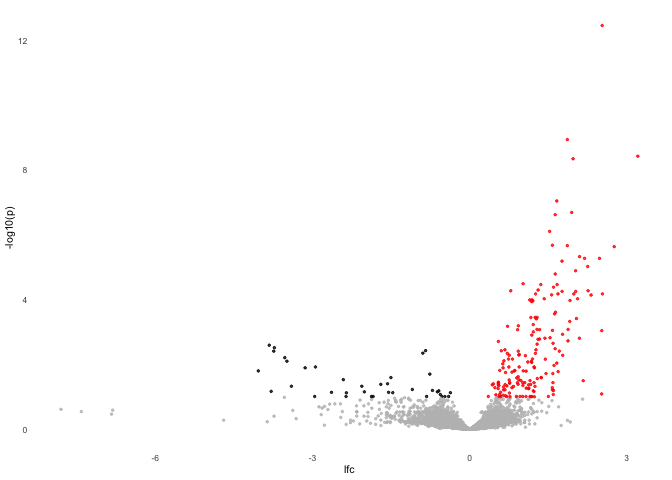
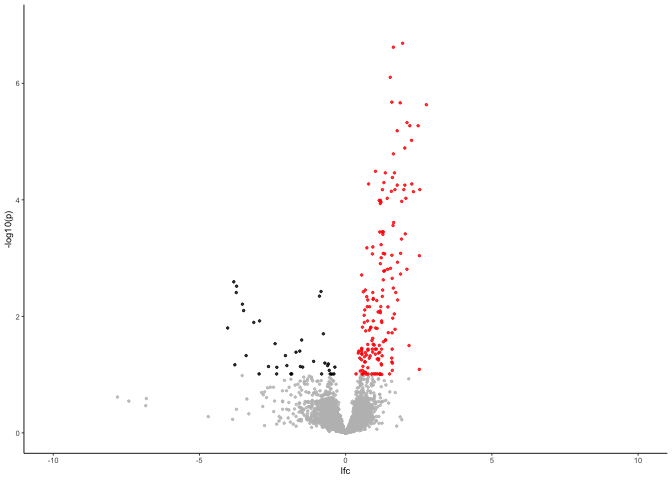
now with heatmaps

diff --git a/scripts/02f_trainedvyoked.md b/scripts/02f_trainedvyoked.md
@@ -2,6 +2,8 @@
     library(forcats)
     library(cowplot) ## for some easy to use themes
     library(DESeq2) ## for gene expression analysis
+    library(pheatmap)
+    library(viridis)
 
     library(BiocParallel)
     register(MulticoreParam(6))
@@ -332,10 +334,10 @@
       volcano <- data %>%
         ggplot(aes(x = lfc, y = logpadj)) + 
         geom_point(aes(color = factor(direction)), size = 0.5, alpha = 0.75, na.rm = T) + 
-          theme_minimal(base_size = 8) +
+          theme_ms() +
         scale_color_manual(values = c("grey", "red", "black"))  + 
-        #ylim(c(0,7)) +
-        #xlim(c(-10,10)) +
+        ylim(c(0,7)) +
+        xlim(c(-10,10)) +
         labs(x = "lfc", y = "-log10(p)")  +
         theme(panel.grid.minor=element_blank(),
                     panel.grid.major=element_blank(),
@@ -355,3 +357,146 @@
     plot_grid(a,b, labels = c("DG", "CA1"))
 
 ![](../figures/02f_trainedvyoked/volcanos-3.png)
+
+    resvals2 <- function(mydds, contrastvector, mypval){
+      res <- results(mydds, contrast = c(contrastvector[1],contrastvector[2],contrastvector[3]), independentFiltering = T)
+      sumpvalue <- sum(res$pvalue < mypval, na.rm = TRUE)
+      #print(sumpvalue)
+      sumpadj <- sum(res$padj < mypval, na.rm = TRUE)
+      print(sumpadj)
+      vals <- cbind(res$pvalue, res$padj)
+      pvalcolname <- as.character(paste("pval",contrastvector[1],contrastvector[2],contrastvector[3], sep=""))
+      padjcolname <- as.character(paste("padj",contrastvector[1],contrastvector[2],contrastvector[3], sep=""))
+      colnames(vals) <- c(pvalcolname, padjcolname)
+      return(vals)
+    }
+
+    contrast1 <- resvals2(DGdds, contrastvector = c("combinedgroups", "trained", "yoked"), mypval = 0.1) # 3060
+
+    ## [1] 214
+
+    contrast2 <- resvals2(CA1dds, contrastvector = c("combinedgroups", "trained", "yoked"), mypval = 0.1) # 2388
+
+    ## [1] 16
+
+    ## DG 
+    DEGes <- assay(vst(DGdds))
+    DEGes <- cbind(DEGes, contrast1)
+    DEGes <- as.data.frame(DEGes) # convert matrix to dataframe
+    DEGes$rownames <- rownames(DEGes)  # add the rownames to the dataframe
+    DEGes$rownames <- str_to_upper(DEGes$rownames) ## uppercase gene names
+    DEGes$padjmin <- with(DEGes, pmin(padjcombinedgroupstrainedyoked)) 
+    DEGes <- DEGes %>% filter(padjmin < 0.05)
+    rownames(DEGes) <- DEGes$rownames
+    drop.cols <-colnames(DEGes[,grep("padj|pval|rownames", colnames(DEGes))])
+    DEGes <- DEGes %>% dplyr::select(-one_of(drop.cols))
+    DEGes <- as.matrix(DEGes)
+    DEGes <- DEGes - rowMeans(DEGes)
+    DEGes <- as.matrix(DEGes)
+    paletteLength <- 10
+    myBreaks <- c(seq(min(DEGes), 0, length.out=ceiling(paletteLength/2) + 1), 
+                  seq(max(DEGes)/paletteLength, max(DEGes), length.out=floor(paletteLength/2)))
+    df <- as.data.frame(colData(DGdds)[,c("combinedgroups")]) ## matrix to df
+    rownames(df) <- row.names(colData(DGdds))
+    names(df) <- c("combinedgroups")
+    df$subfield <- "DG"
+    levels(df$combinedgroups) <- c("yoked", "trained")
+
+    pheatmap(DEGes, show_colnames=F, show_rownames = T,
+             annotation_col=df, 
+             annotation_colors = pheatmapcolors2,
+             treeheight_row = 0, treeheight_col = 25,
+             annotation_row = NA, 
+             annotation_legend = TRUE,
+             annotation_names_row = FALSE, annotation_names_col = FALSE,
+             fontsize = 8, 
+             border_color = NA ,
+             color = viridis(10),
+             cellwidth = 6, 
+             clustering_method="average",
+             breaks=myBreaks,
+             clustering_distance_cols="correlation" 
+             )
+
+![](../figures/02f_trainedvyoked/pheatmap-1.png)
+
+    pheatmap(DEGes, show_colnames=F, show_rownames = T,
+             annotation_col=df, 
+             annotation_colors = pheatmapcolors2,
+             treeheight_row = 25, treeheight_col = 12.5,
+             annotation_row = NA, 
+             annotation_legend = TRUE,
+             annotation_names_row = FALSE, annotation_names_col = FALSE,
+             fontsize = 3, 
+             border_color = NA ,
+             color = viridis(10),
+             cellwidth = 6, 
+             cluster_rows = FALSE,
+             clustering_method="average",
+             breaks=myBreaks,
+             clustering_distance_cols="correlation", 
+             height = 7, 
+             width = 2.5,
+             filename = "../figures/02f_trainedvyoked/pheatmap-DG.pdf"
+             )
+
+
+    ### CA1
+
+    DEGes <- assay(vst(CA1dds))
+    DEGes <- cbind(DEGes, contrast2)
+    DEGes <- as.data.frame(DEGes) # convert matrix to dataframe
+    DEGes$rownames <- rownames(DEGes)  # add the rownames to the dataframe
+    DEGes$rownames <- str_to_upper(DEGes$rownames) ## uppercase gene names
+    DEGes$padjmin <- with(DEGes, pmin(padjcombinedgroupstrainedyoked)) 
+    DEGes <- DEGes %>% filter(padjmin < 0.1)
+    rownames(DEGes) <- DEGes$rownames
+    drop.cols <-colnames(DEGes[,grep("padj|pval|rownames", colnames(DEGes))])
+    DEGes <- DEGes %>% dplyr::select(-one_of(drop.cols))
+    DEGes <- as.matrix(DEGes)
+    DEGes <- DEGes - rowMeans(DEGes)
+    DEGes <- as.matrix(DEGes) 
+    paletteLength <- 10
+    myBreaks <- c(seq(min(DEGes), 0, length.out=ceiling(paletteLength/2) + 1), 
+                  seq(max(DEGes)/paletteLength, max(DEGes), length.out=floor(paletteLength/2)))
+    df <- as.data.frame(colData(CA1dds)[,c("combinedgroups")]) ## matrix to df
+    rownames(df) <- row.names(colData(CA1dds))
+    names(df) <- c("combinedgroups")
+    df$subfield <- "CA1"
+    levels(df$combinedgroups) <- c("yoked", "trained")
+
+    pheatmap(DEGes, show_colnames=F, show_rownames = T,
+             annotation_col=df, 
+             annotation_colors = pheatmapcolors3,
+             treeheight_row = 0, treeheight_col = 25,
+             annotation_row = NA, 
+             annotation_legend = TRUE,
+             annotation_names_row = FALSE, annotation_names_col = FALSE,
+             fontsize = 8, 
+             border_color = NA ,
+             color = viridis(10),
+             cellwidth = 6, 
+             clustering_method="average",
+             breaks=myBreaks,
+             clustering_distance_cols="correlation" 
+             )
+
+    pheatmap(DEGes, show_colnames=F, show_rownames = T,
+             annotation_col=df, 
+             annotation_colors = pheatmapcolors3,
+             treeheight_row = 25, treeheight_col = 12.5,
+             annotation_row = NA, 
+             annotation_legend = TRUE,
+             annotation_names_row = FALSE, annotation_names_col = FALSE,
+             fontsize = 3, 
+             border_color = NA ,
+             color = viridis(10),
+             cellwidth = 6, 
+             cluster_rows = FALSE,
+             clustering_method="average",
+             breaks=myBreaks,
+             clustering_distance_cols="correlation", 
+             height = 2.5, 
+             width = 2.5,
+             filename = "../figures/02f_trainedvyoked/pheatmap-CA1.pdf"
+             )
